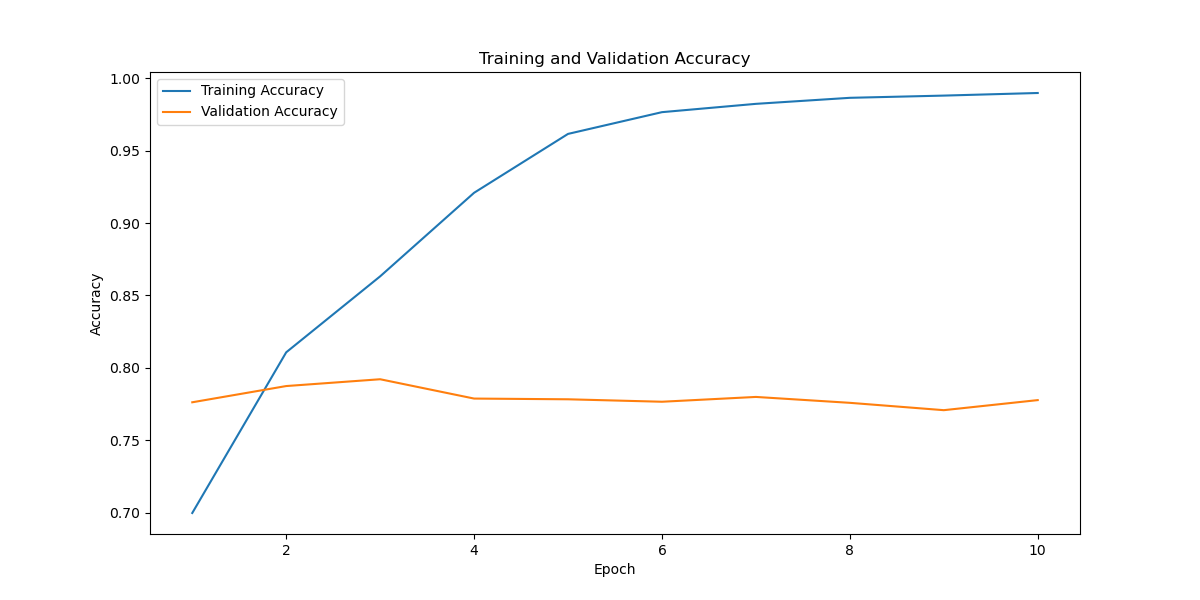
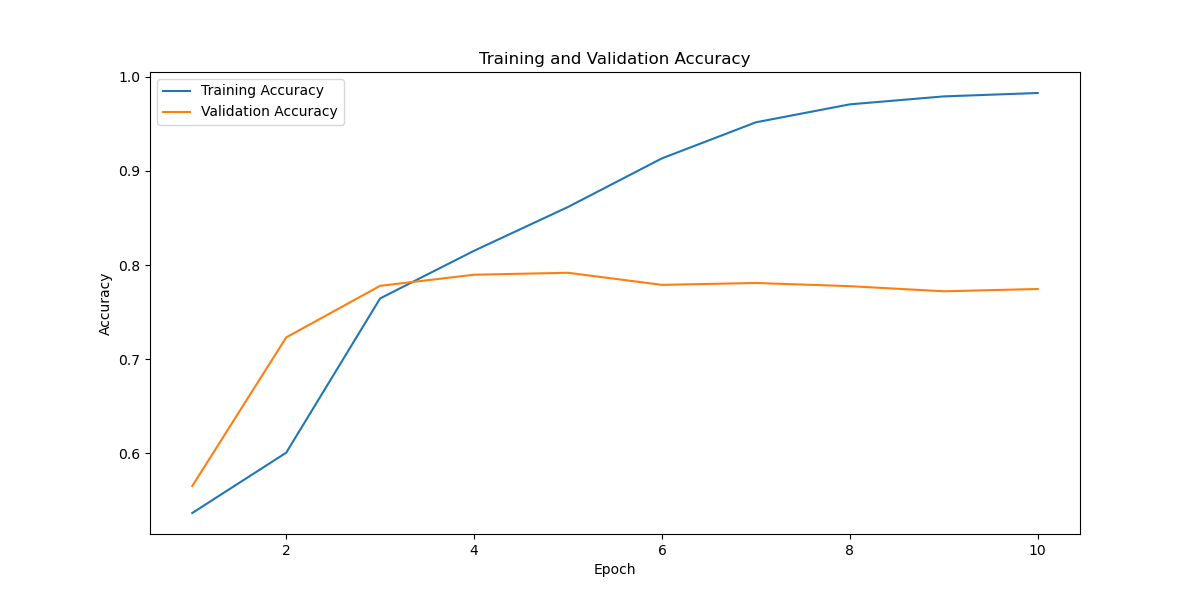
add embedded effect

diff --git a/src/model/LSTM.py b/src/model/LSTM.py
@@ -19,6 +19,7 @@ class LSTMModel(nn.Module):
 
     def forward(self, input_ids, attention_mask, token_type_ids):
         embedded = self.embedding(input_ids)
+        embedded = embedded * attention_mask.unsqueeze(-1)
         lstm_out, _ = self.lstm(embedded)
         output = self.fc(lstm_out[:, -1, :])
         output = self.sigmoid(output)

diff --git a/src/model/LSTM_GPT.py b/src/model/LSTM_GPT.py
@@ -19,6 +19,7 @@ class LSTMModel(nn.Module):
 
     def forward(self, input_ids, attention_mask):
         embedded = self.embedding(input_ids)
+        embedded = embedded * attention_mask.unsqueeze(-1)
         lstm_out, _ = self.lstm(embedded)
         output = self.fc(lstm_out[:, -1, :])
         output = self.sigmoid(output)
